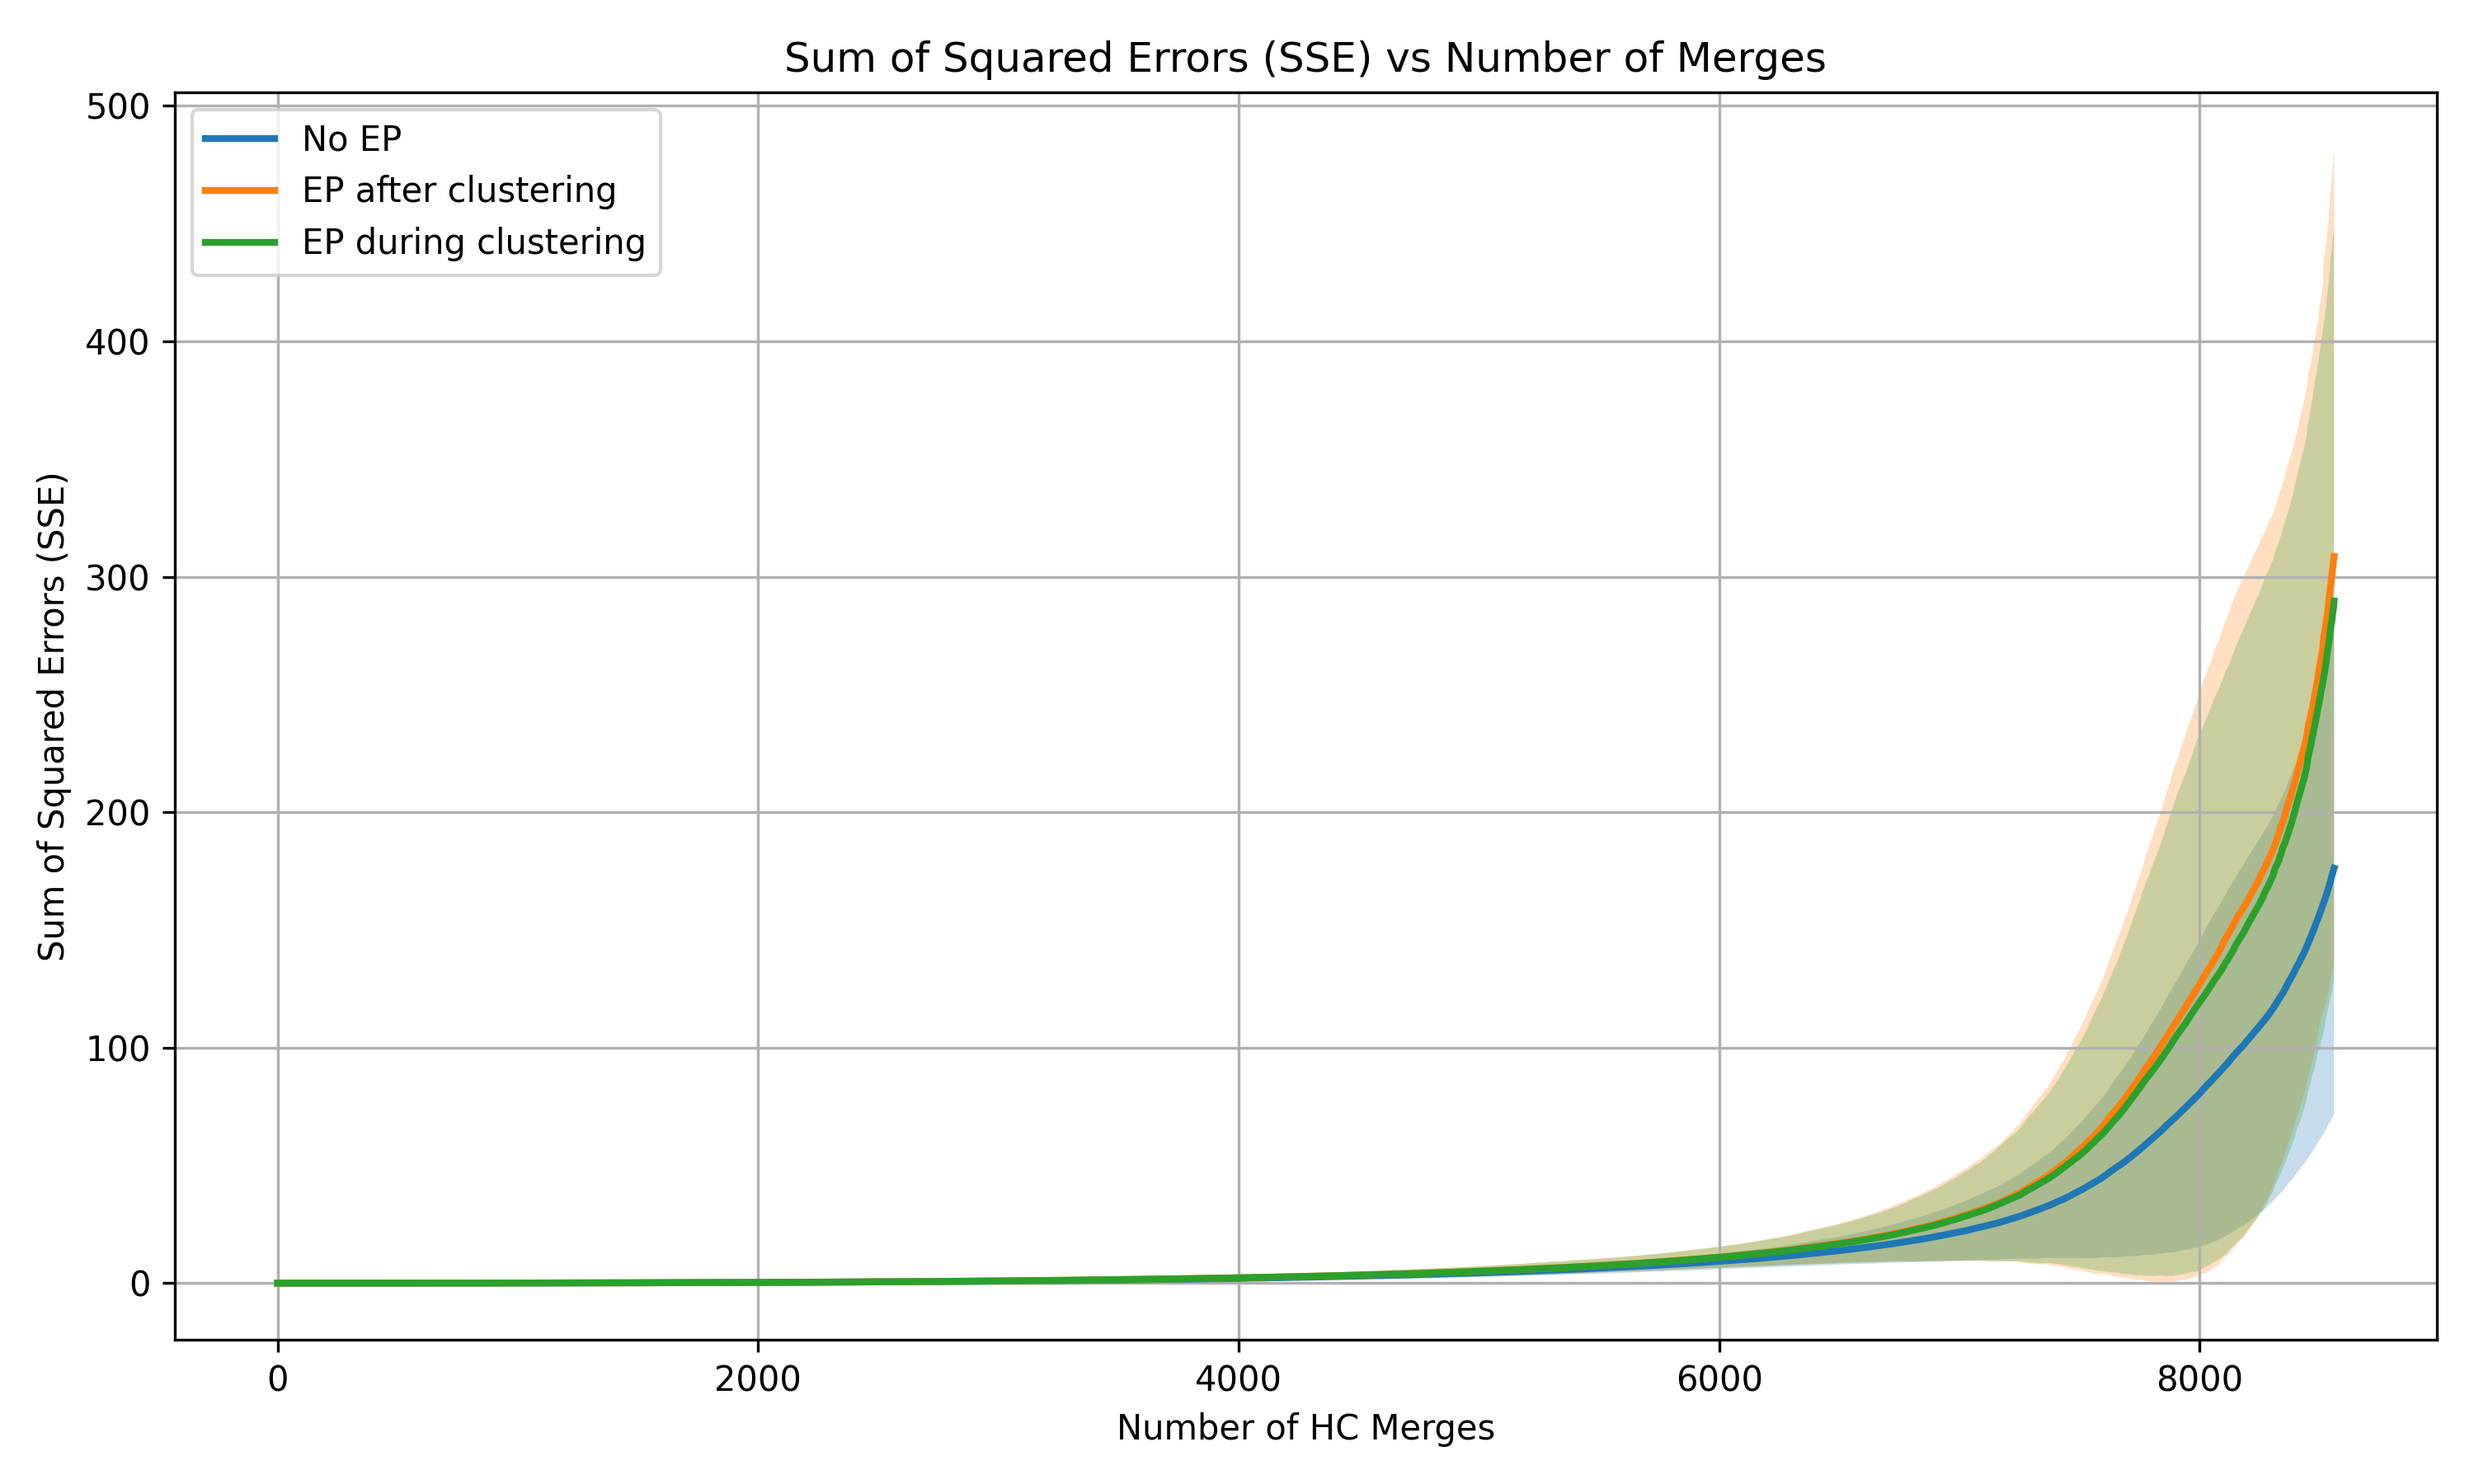
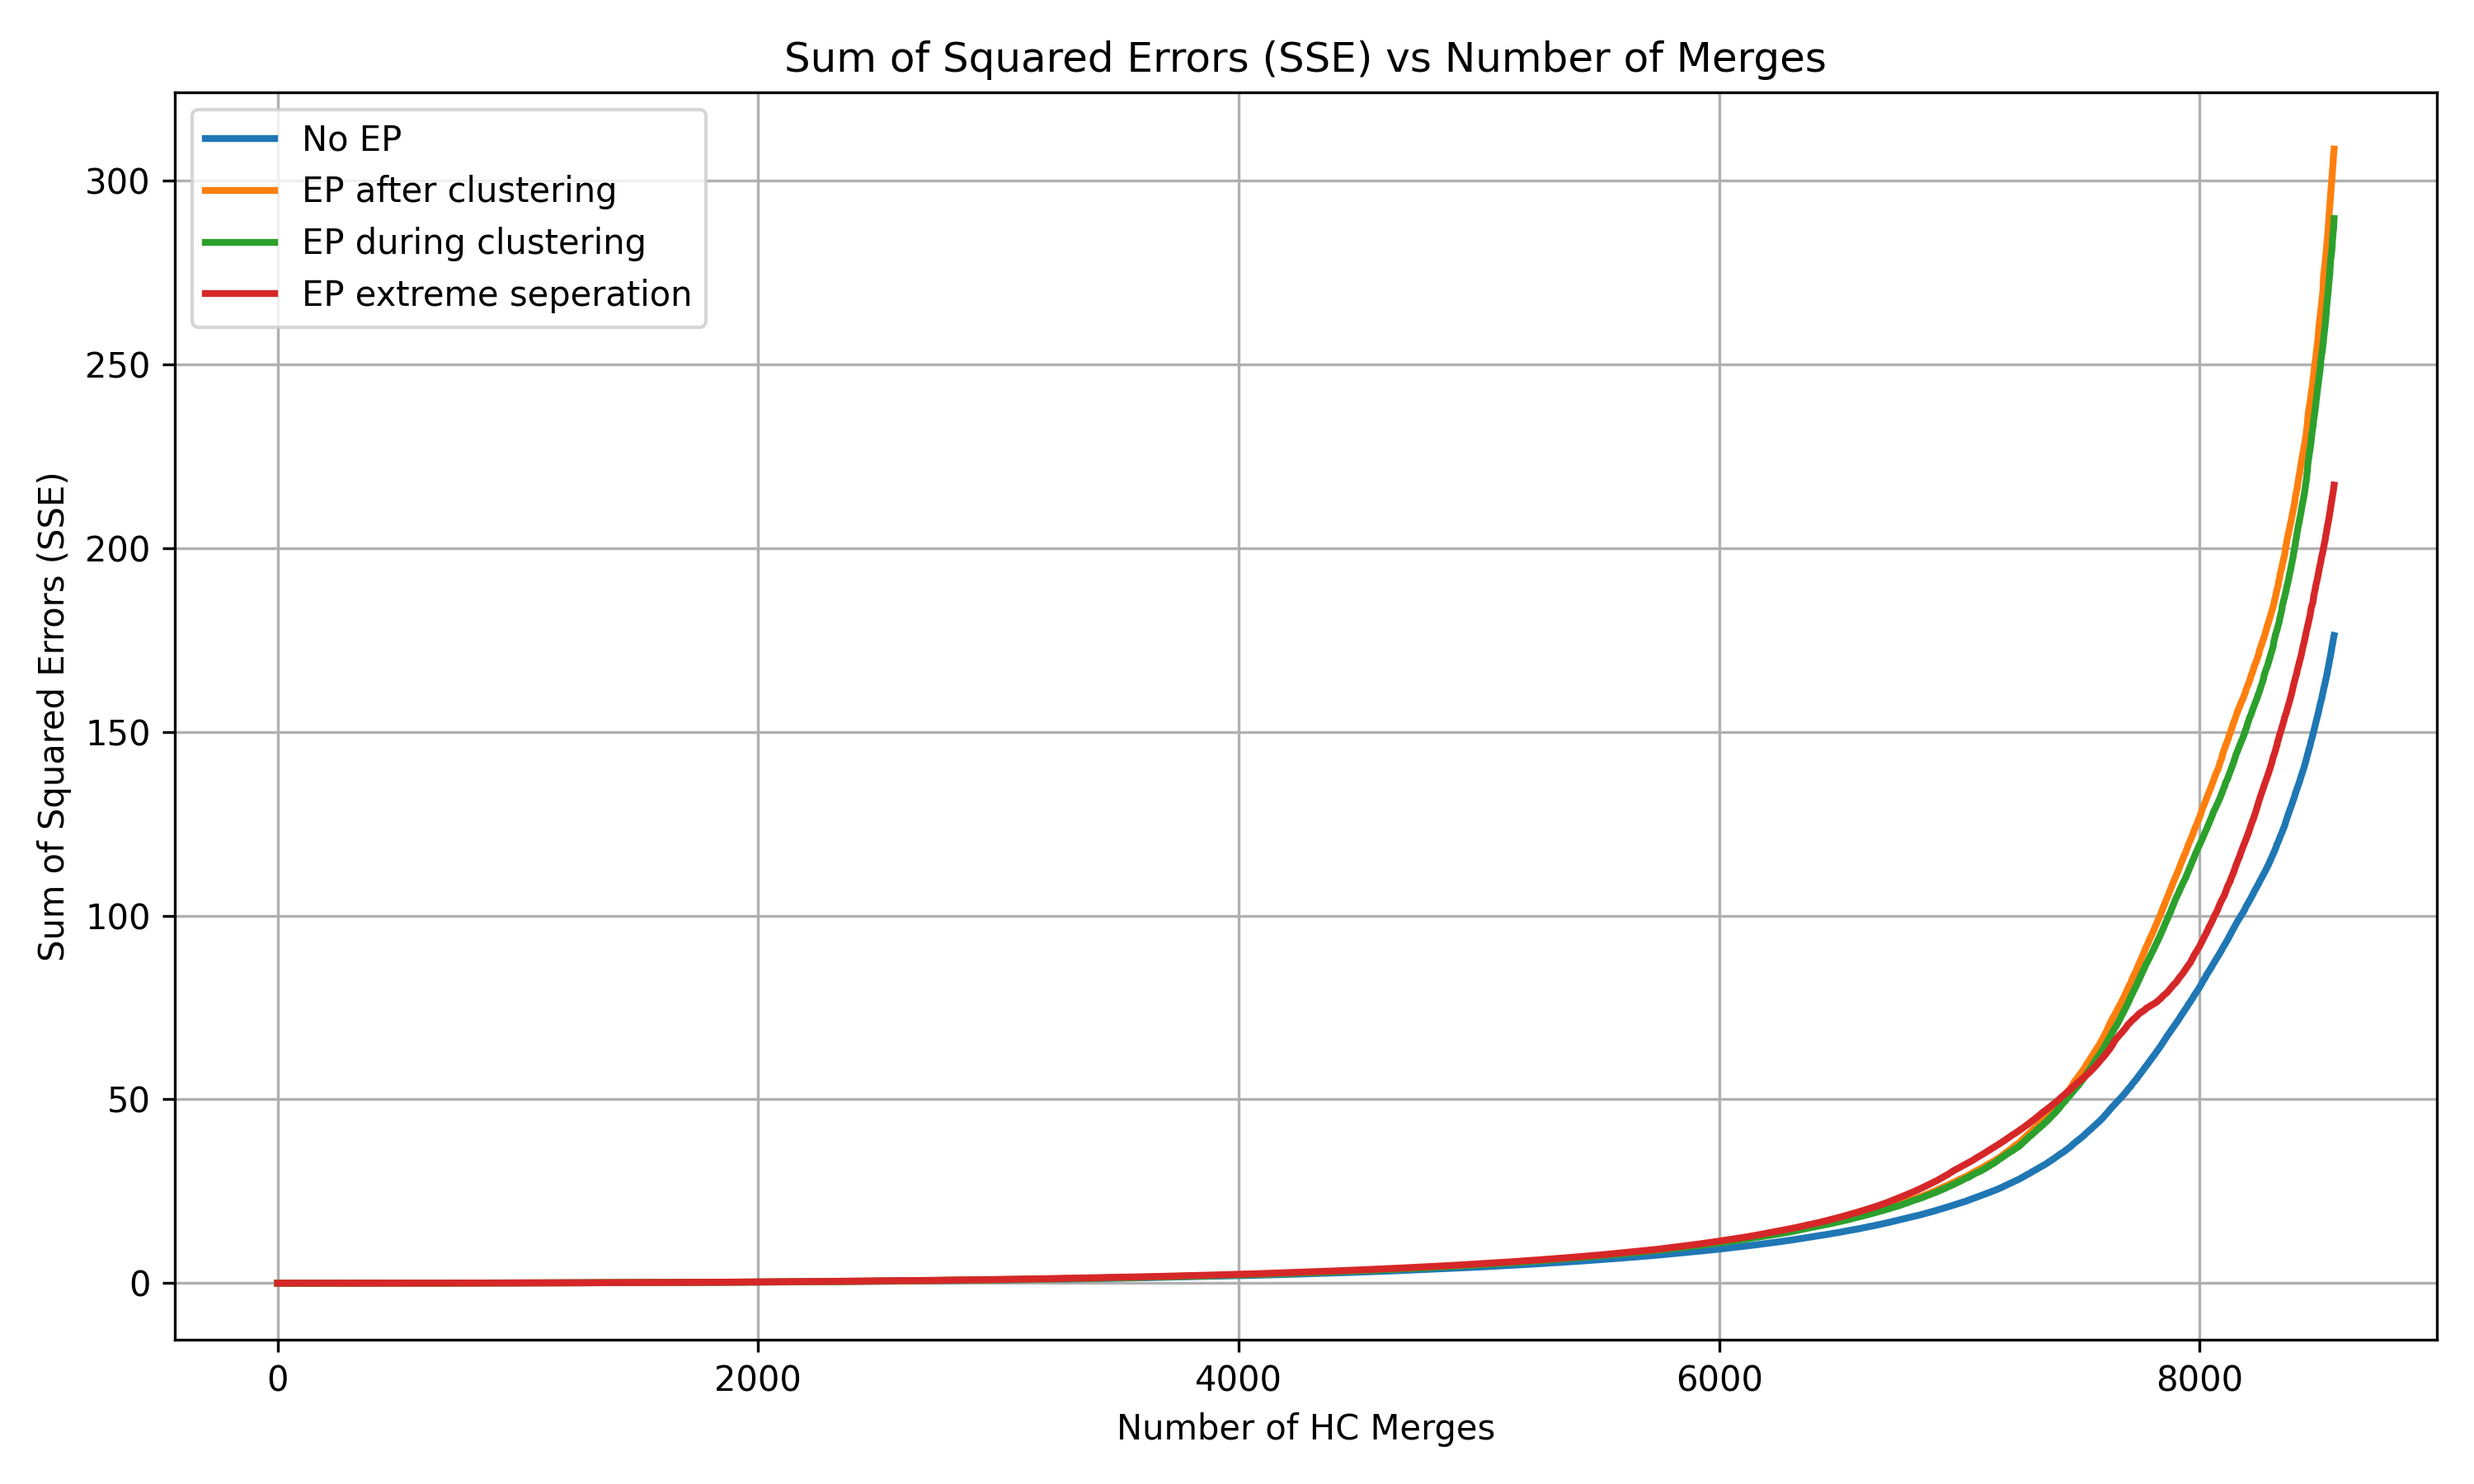
sepperate extremes

diff --git a/plotting/plot_errors_per_merge_comparison.py b/plotting/plot_errors_per_merge_comparison.py
@@ -9,12 +9,13 @@ csv_files = {
     "No EP": "plotting/csv_data/per_merge/ward_k200_perlocation_NoExtremePreservation_hp0.95_lp0.05.csv",
     "EP after clustering": "plotting/csv_data/per_merge/ward_k200_perlocation_Afterwards_hp0.95_lp0.05.csv",
     "EP during clustering": "plotting/csv_data/per_merge/ward_k200_perlocation_DuringClustering_hp0.95_lp0.05.csv",
+    "EP extreme seperation": "plotting/csv_data/per_merge/ward_k200_perlocation_SeperateExtremes_hp0.95_lp0.05.csv",
 }
 
 # Clear, academic labels
 error_labels = {
-    "errors": "Sum of Squared Errors (SSE)",
-    # "ldc_errors": "Load Duration Curve RMSE"
+    # "errors": "Sum of Squared Errors (SSE)",
+    "ldc_errors": "Load Duration Curve RMSE"
 }
 
 output_folder = Path("plots")
@@ -51,12 +52,12 @@ for error_col in error_labels:
             label=label
         )
 
-        plt.fill_between(
-            x,
-            mean_error - std_error,
-            mean_error + std_error,
-            alpha=0.25
-        )
+        # plt.fill_between(
+        #     x,
+        #     mean_error - std_error,
+        #     mean_error + std_error,
+        #     alpha=0.25
+        # )
 
     plt.xlabel("Number of HC Merges")
     plt.ylabel(error_labels.get(error_col, error_col))

diff --git a/plotting/plot_errors_per_merge_individual.py b/plotting/plot_errors_per_merge_individual.py
@@ -7,15 +7,16 @@ from matplotlib.lines import Line2D
 
 # --- Config: CSV files and which columns to plot ---
 csv_files = {
-    "Per Location": "plotting/csv_data/errors_per_location.csv",
+    # "Per Location": "plotting/csv_data/errors_per_location.csv",
     # "Per Profile": "plotting/csv_data/errors_per_profile.csv",
     # "Extreme preservation": "plotting/csv_data/errors_per_location_extreme_preservation.csv"
+    "EP extreme seperation": "plotting/csv_data/per_merge/ward_k200_perlocation_SeperateExtremes_hp0.95_lp0.05.csv",
 }
 
 # Clear, academic labels
 error_labels = {
     "errors": "Sum of Squared Errors (SSE)",
-    # "ldc_errors": "Load Duration Curve RMSE"
+    "ldc_errors": "Load Duration Curve RMSE"
 }
 
 # --- Asset color mapping ---
@@ -89,8 +90,8 @@ for error_col in error_labels:
     # Combine legends cleanly
     plt.legend(handles=asset_legend_handles + [mean_handle], loc="upper left")
     
-    plt.ylim(top=10, bottom=0)
+    # plt.ylim(top=10, bottom=0)
 
     plt.tight_layout()
-    plt.savefig(output_folder / f"{error_col}_y_lim.png")
+    plt.savefig(output_folder / f"{error_col}_ward_k200_perlocation_SeperateExtremes_hp0.95_lp0.05.png")
     plt.show()

diff --git a/plotting/plot_load_duration_curve.py b/plotting/plot_load_duration_curve.py
@@ -8,7 +8,7 @@ extreme_preservation = True
 Path("plots/load_duration_curve").mkdir(parents=True, exist_ok=True)
 
 # --- Load CSVs ---
-filename = "ward_k1500_perlocation_NoExtremePreservation_hp0.95_lp0.05"
+filename = f"ward_k{num_clusters}_perlocation_SeperateExtremes_hp0.95_lp0.05"
 df = pd.read_csv(f"plotting/csv_data/partitions/{filename}.csv")
 df_full_resolution = pd.read_csv(f"plotting/csv_data/partitions/8760.csv")
 
